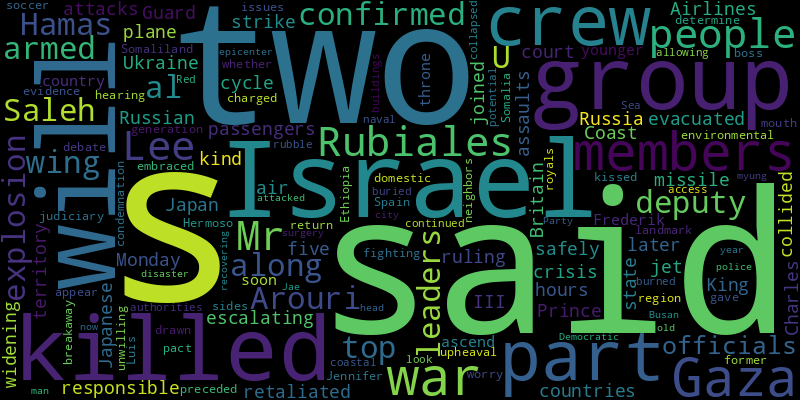
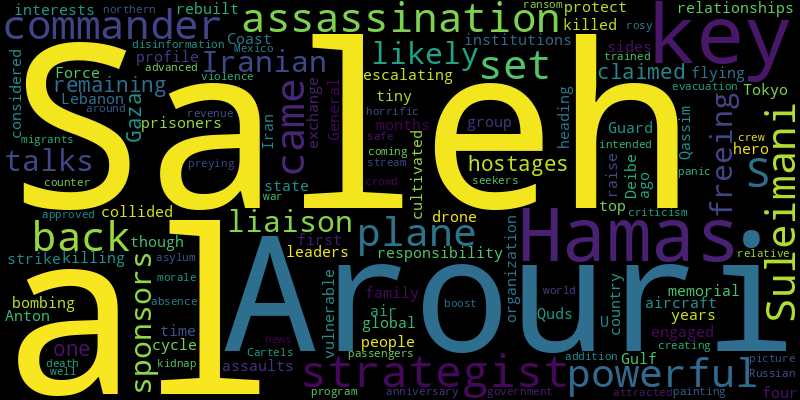
chore(bot): 😂 auto commit

diff --git a/README.md b/README.md
@@ -2,41 +2,41 @@
 Auto RSS New York Times and Generate Word Cloud
 
 ## New York Times Global News
-* Hamas confirmed that Saleh al-Arouri, the group’s top deputy, had been killed in the explosion, along with two leaders of the group’s armed wing. Two U.S. officials said Israel was responsible for the strike.
-* Russia said that Ukraine retaliated hours later with missile attacks on Russian territory, part of an escalating cycle of air assaults between the two countries.
-* Japan Airlines said all 367 passengers and 12 crew members had safely, evacuated the jet. But five crew members on a Japanese Coast Guard plane that collided with it were killed.
-* Monday’s court ruling joined the war in Gaza in a widening crisis over what kind of state Israel will be.
-* Like King Charles III of Britain, Prince Frederik, who will soon ascend to his country’s throne, is part of a younger generation of royals who have embraced environmental issues.
-* With Israel fighting in Gaza, people on both sides of the judiciary debate appear unwilling to return to the domestic upheaval that preceded the war.
-* Jennifer Hermoso, who was kissed on the mouth by Spain’s former soccer boss, Luis Rubiales, gave evidence at a hearing to determine whether Mr. Rubiales will be charged.
-* A landmark pact between Ethiopia and the breakaway region of Somaliland has drawn condemnation from Somalia. Other neighbors also worry about allowing potential naval access to the Red Sea.
-* The authorities continued to look for people buried in the rubble of collapsed and burned buildings in the coastal epicenter of the disaster.
-* Lee Jae-myung, the Democratic Party head, was attacked by a 66-year-old man in the city of Busan, the police said. Mr. Lee is now recovering from surgery.
+* Saleh al-Arouri was a key Hamas strategist and a liaison to its Iranian sponsors. But his assassination was likely to set back talks on freeing the remaining hostages in Gaza.
+* No one claimed responsibility for the bombing at a memorial for Qassim Suleimani, the top commander killed by a U.S. drone strike four years ago.
+* The exchange of prisoners was the first in months and came as both sides were engaged in an escalating cycle of air assaults.
+* The tiny Gulf state has cultivated relationships with powerful people and institutions to raise its global profile, and to protect its interests.
+* Anton Deibe, 17, and his family were flying into Tokyo when their plane collided with a Coast Guard aircraft.
+* The killing of Saleh al-Arouri, a key Hamas strategist, in Lebanon sets the organization back at a vulnerable time. The group has rebuilt after the assassination of other leaders, though.
+* General Suleimani, the powerful commander heading Iran’s Quds Force, was considered a hero by some in the country. The anniversary of his death has attracted horrific violence.
+* A government-approved news program intended to counter Russian disinformation and boost morale is coming under criticism for painting a rosy picture of the war.
+* Cartels are preying on asylum seekers and migrants from around the world as they crowd northern Mexico, creating a kidnap-for-ransom revenue stream.
+* In addition to a well-trained crew and an advanced plane, the safe evacuation of 367 passengers came down to a relative absence of panic.
 
 ![Global](./global.png)
 ## New York Times United States News
-* Amid plagiarism allegations and a backlash to campus antisemitism, Claudine Gay became an avatar for broader criticisms of academia.
-* The move attempts to overturn the decision which made Maine the second state to rule the former president ineligible for the primary ballot.
-* Shiffrin, the champion American ski racer, is an unabashed Swiftie, and has long seen the pop culture force as a textbook guide for navigating fame, adversity and unprecedented success.
-* The authorities said they did not believe the shooting was related to previous threats against the justices who barred Donald J. Trump from the state’s primary ballot.
-* In a case that has drawn international attention, a grand jury in Ohio is expected to decide whether to indict a Black woman who miscarried at home and disposed of the nonviable fetus.
+* Cartels are preying on asylum seekers and migrants from around the world as they crowd northern Mexico, creating a kidnap-for-ransom revenue stream.
+* An effort to overhaul how children learn to read, known as the science of reading movement, is sweeping the country. Here’s where it stands.
 * The border crossing in a remote Arizona community was a passage for thousands of workers, families and businesses in the region who relied on it every day.
-* The visit by the speaker and scores of House Republicans comes as the G.O.P. seeks to increase pressure on President Biden and Democrats to agree to severe new border policies.
-* The president will speak at Valley Forge on the anniversary of the Jan. 6 Capitol riot, and later at a South Carolina church where a white supremacist killed nine people.
-* The 38-year-old entrepreneur has maintained a grueling schedule, but questions about the goals of his candidacy are mounting with less than two weeks before the caucuses.
-* The munition, which was carried to shore by the rough surf that battered the state last week, was found on New Year’s Eve.
+* The move attempts to overturn the decision which made Maine the second state to rule the former president ineligible for the primary ballot.
+* Colorado and Maine, which blocked former President Donald J. Trump from the ballot, have grappled with the intimidation and harassment of officials.
+* The investigation was delayed after a judge blocked the district attorney in Fulton County, Ga., from conducting it. To date, nobody has been tapped to take over.
+* Claudine Gay celebrated her history making appointment. But after she resigned, she spoke very differently about her experience.
+* In a scene captured on video, Deobra Redden, 30, jumped over a courtroom bench onto Judge Mary Kay Holthus as he was about to be sentenced, court officials said.
+* The visit to Texas reflects the extent to which immigration has become one of President Biden’s biggest political vulnerabilities, particularly as the 2024 election nears.
+* Representative Tony Gonzales, who represents a Texas border district, drew a censure and primary opponents for defying his fellow Republicans on immigration. Now he has swung into line.
 
 ![US](./usnews.png)
 ## New York Times Asia News
+* Plus, China shakes up its military.
+* Anton Deibe, 17, and his family were flying into Tokyo when their plane collided with a Coast Guard aircraft.
+* In addition to a well-trained crew and an advanced plane, the safe evacuation of 367 passengers came down to a relative absence of panic.
 * The attack on Lee Jae-myung, who narrowly lost the 2022 presidential vote, came amid a deepening political divide and increasingly extreme discourse in South Korea.
 * The study, under investigation by its publisher, has fueled a dispute over the age of a partially excavated site and prompted warnings about the dangers of nationalist mythmaking.
 * The purge of several commanders from China’s legislature was the latest sign of widening investigations focused on the sensitive arms sector, experts say.
 * Plus the great winter festivals of Asia.
 * The prosecution accused him of colluding with U.S. officials to undermine Hong Kong’s interests, citing private messages, meetings and social media posts.
-* Japan Airlines said all 367 passengers and 12 crew members had safely, evacuated the jet. But five crew members on a Japanese Coast Guard plane that collided with it were killed.
+* Japan Airlines said all 367 passengers and 12 crew members had safely evacuated the jet. But five crew members on a Japanese Coast Guard plane that collided with it were killed.
 * The authorities continued to look for people buried in the rubble of collapsed and burned buildings in the coastal epicenter of the disaster.
-* Long-term investment in India by businesses is stagnant, and foreign money is falling, even as the government is driving growth with infrastructure spending.
-* Lee Jae-myung, the Democratic Party head, was attacked by a 66-year-old man in the city of Busan, the police said. Mr. Lee is now recovering from surgery.
-* Plus New Year’s offerings to the sea in Brazil.
 
 ![Asian](./asian.png)
